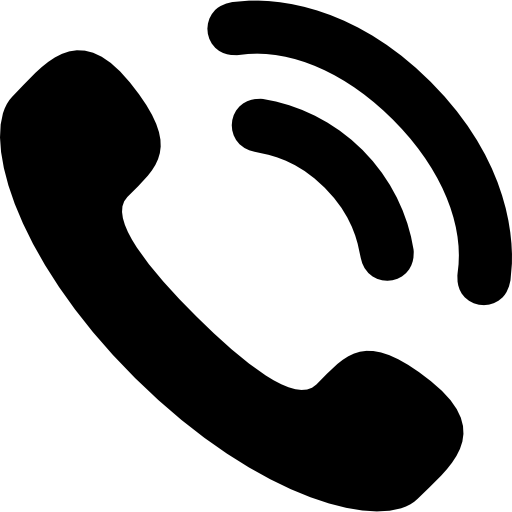
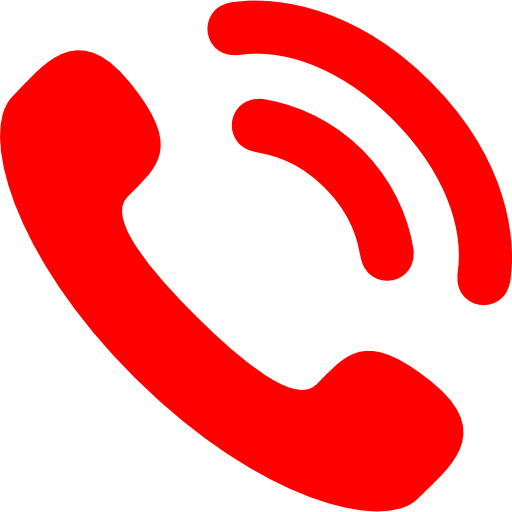
separate title and phone number

diff --git a/styles.css b/styles.css
@@ -1,10 +1,12 @@
 body {
     text-align: center;
-    background-color: #00ccbb;
+    background-color: #00bbaa;
     margin: 0;
 }
 
 h1 {
+    position: relative;
+    align-items: center;
     display: flex;
     text-transform: uppercase; 
     font-family: sans-serif;
@@ -12,7 +14,7 @@ h1 {
     padding-right: 7%;
     padding-top: 3%;
     padding-bottom: 3%;
-    background-color: #006666;
+    background: linear-gradient(130deg, #003366 64.5%, #660000 65%);
     margin-top: 0;
     margin-bottom: 0;
 }
@@ -21,7 +23,7 @@ h1 a:first-child {
     display: flex;
     text-decoration: none;
     font-size: 40px;
-    color: white;
+    color: cyan;
     white-space: nowrap;
 }
 
@@ -30,7 +32,6 @@ h1 a:first-child::before {
     transform: scale(300%);
     margin-right: 10%;
     content: url("./logo.png");
-    filter: invert(1);
     width: 40px;
     height: 40px;
 }
@@ -41,7 +42,7 @@ h1 a:last-child {
     align-self: flex-end;
     margin-left: auto;
     font-size: 30px;
-    color: white;
+    color: cyan;
     white-space: nowrap;
 }
 
@@ -50,21 +51,12 @@ h1 a:last-child::before {
     content: url("./phone.png");
     margin-left: auto;
     margin-right: 5%;
-    filter: invert(1);
     height: 35px;
     width: 35px;
     background-repeat: no-repeat;
     background-position: center;
     background-size: contain;
     vertical-align: middle;
-}
-
-h1 a:hover {
-    text-decoration: underline;
-}
-
-h1 a:active {
-    color: #00FFFF;
 }
 
 nav {
@@ -127,7 +119,7 @@ section {
     border-style: solid;
     border-color: #000000;
     border-width: 2px;
-    background-color: #00A1A1;
+    background-color: #006060;
     margin-left: auto;
     margin-right: auto;
 }
@@ -137,7 +129,7 @@ section.warning {
 }
 
 section.warning strong {
-    color: rgb(192, 61, 0);
+    color: #FF6060;
 }
 
 section.image img {
